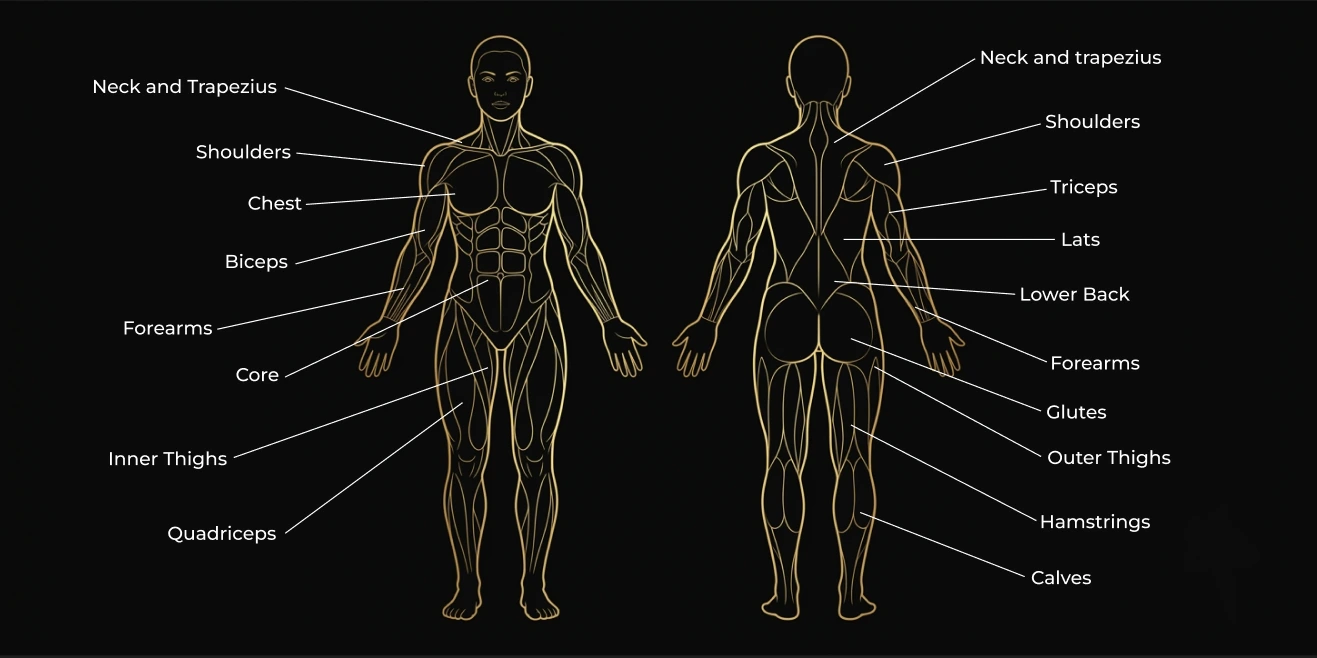
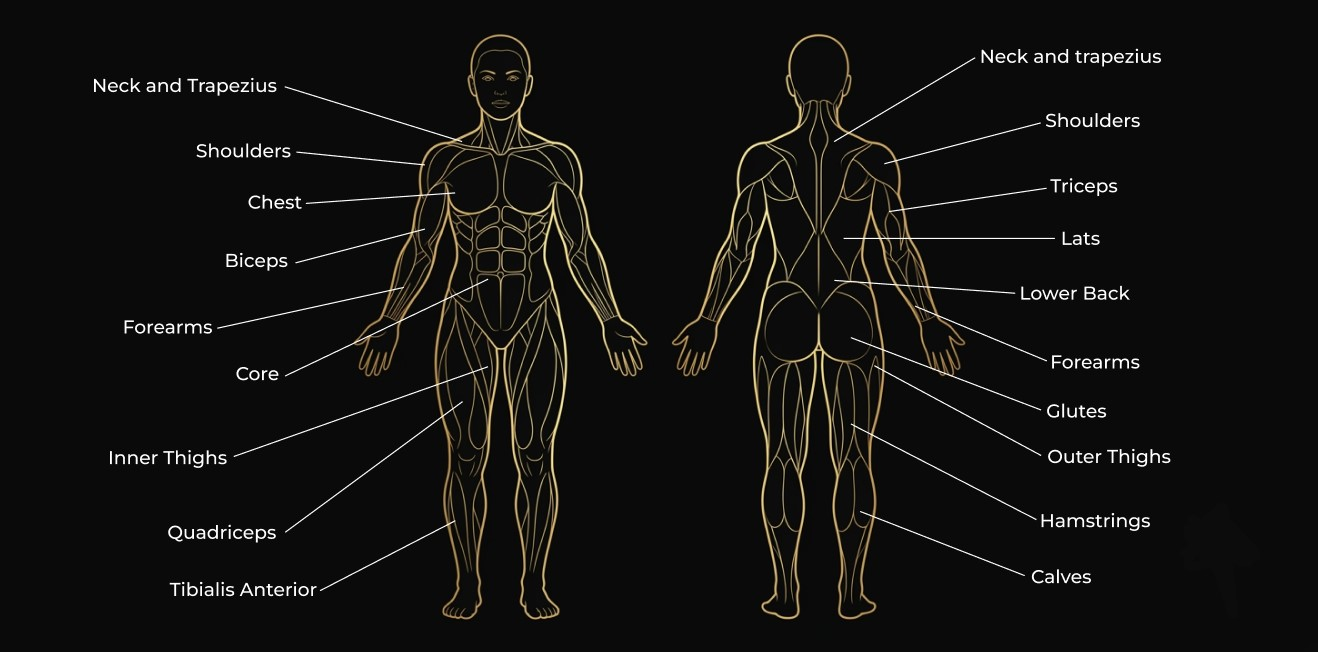
Anatomy map: female art re-export adds its Tibialis Anterior label
Zones regenerated with anatomy-zones.mjs (new: post-cluster minimum
width drops lone leader-line slivers that pass the glyph filter). The
old female source PNG predates the label, so it's removed rather than
kept stale; git history retains it.

diff --git a/src/data/anatomyRegions.js b/src/data/anatomyRegions.js
@@ -30,10 +30,10 @@ export const ANATOMY_SOURCES = {
   },
   female: {
     src: 'images/anatomy-female.webp',
-    w: 1317,
-    h: 658,
-    front: { x: 86, y: 27, w: 570, h: 602 },
-    back: { x: 664, y: 27, w: 515, h: 601 },
+    w: 1318,
+    h: 652,
+    front: { x: 86, y: 26, w: 570, h: 602 },
+    back: { x: 664, y: 26, w: 515, h: 601 },
   },
 }
 
@@ -73,15 +73,16 @@ export const ANATOMY_ZONES = {
       { slug: 'core', label: 'Core', rect: [0.2526, 0.5581, 0.0965, 0.0382] },
       { slug: 'adductors', label: 'Inner Thighs', rect: [0.0404, 0.6977, 0.2175, 0.0449] },
       { slug: 'quads', label: 'Quadriceps', rect: [0.1316, 0.8206, 0.214, 0.0449] },
+      { slug: 'tibialis', label: 'Tibialis Anterior', rect: [0.1351, 0.9153, 0.2807, 0.0399] },
     ],
     back: [
       { slug: 'traps', label: 'Neck and Trapezius', rect: [0.6039, 0.03, 0.3748, 0.0449] },
       { slug: 'shoulders', label: 'Shoulders', rect: [0.7282, 0.1364, 0.2097, 0.0399] },
       { slug: 'triceps', label: 'Triceps', rect: [0.7379, 0.2463, 0.1553, 0.0449] },
       { slug: 'lats', label: 'Lats', rect: [0.7612, 0.3344, 0.0971, 0.0383] },
-      { slug: 'spinal-erectors', label: 'Lower Back', rect: [0.6816, 0.4243, 0.235, 0.0399] },
-      { slug: 'forearms', label: 'Forearms', rect: [0.7398, 0.5408, 0.1961, 0.0366] },
-      { slug: 'glutes', label: 'Glutes', rect: [0.7301, 0.6206, 0.1417, 0.0383] },
+      { slug: 'spinal-erectors', label: 'Lower Back', rect: [0.6796, 0.4243, 0.2369, 0.0399] },
+      { slug: 'forearms', label: 'Forearms', rect: [0.7398, 0.5391, 0.1961, 0.0383] },
+      { slug: 'glutes', label: 'Glutes', rect: [0.7301, 0.6206, 0.1417, 0.0399] },
       { slug: 'abductors', label: 'Outer Thighs', rect: [0.732, 0.6955, 0.2641, 0.0466] },
       { slug: 'hamstrings', label: 'Hamstrings', rect: [0.7204, 0.8037, 0.2369, 0.0449] },
       { slug: 'calves', label: 'Calves', rect: [0.701, 0.8968, 0.1417, 0.0383] },